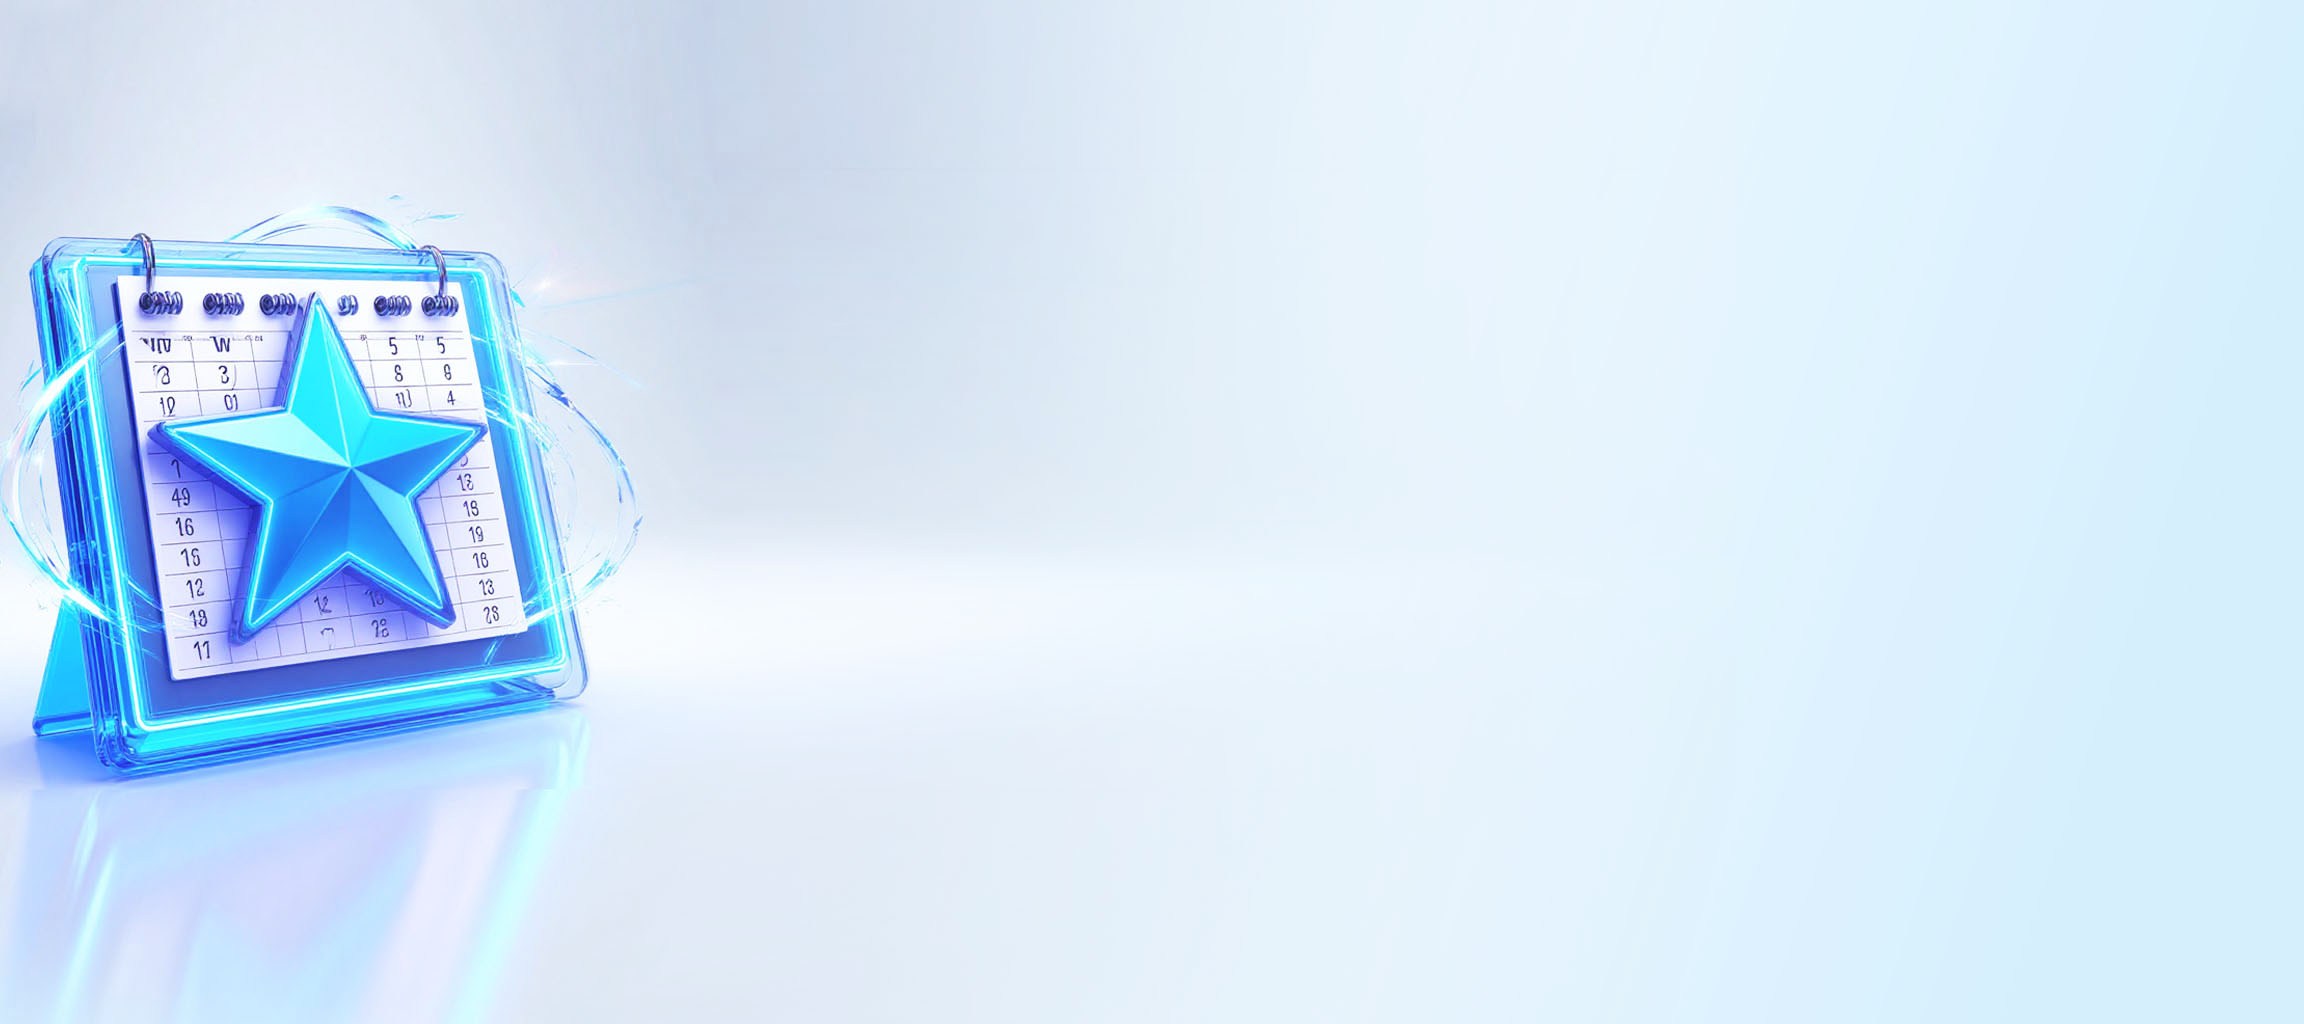
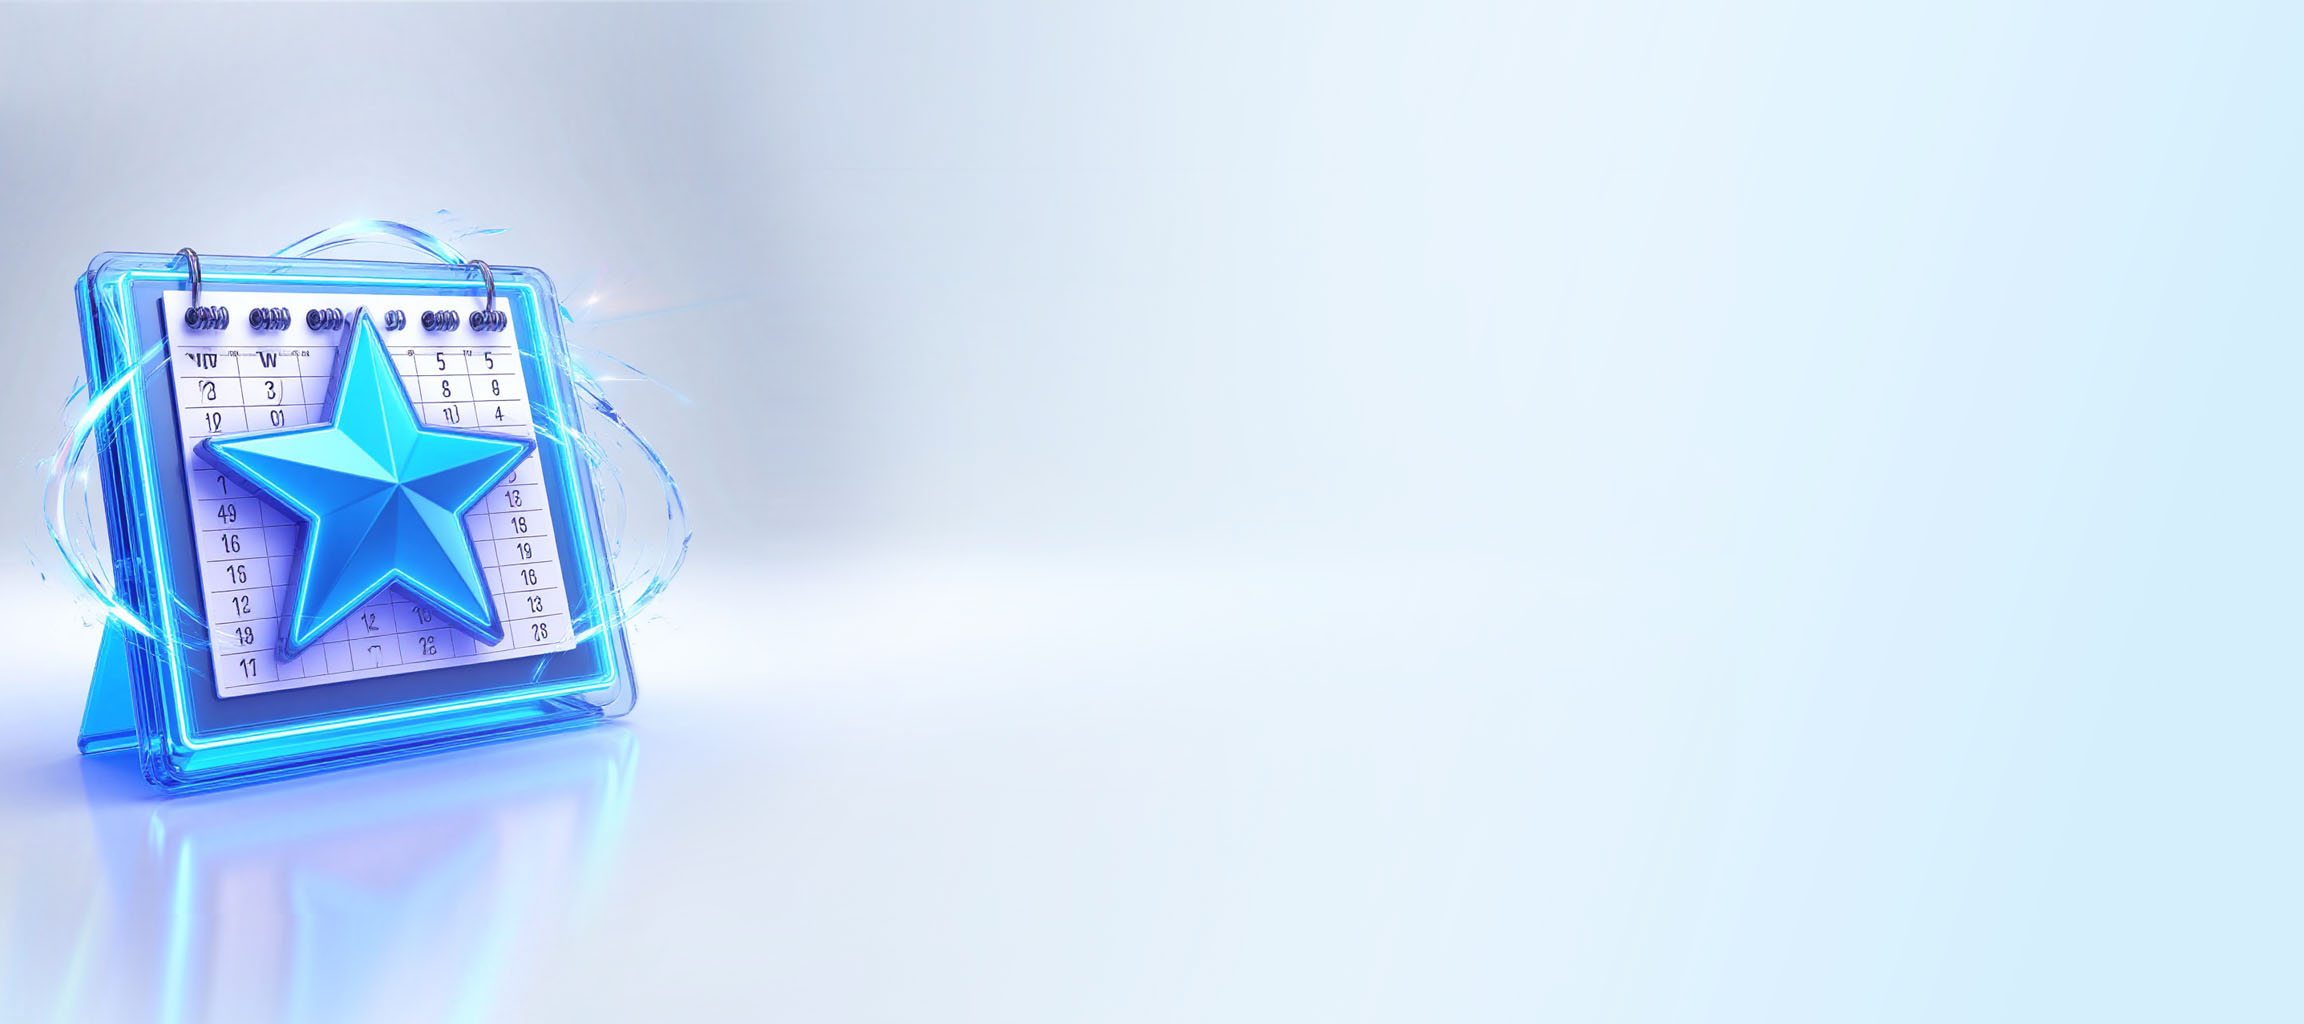
768 ready

Changed region(s): [[0.0, 0.125, 0.3438, 1.0]]

diff --git a/saitCzs/css/vendorRoom.css b/saitCzs/css/vendorRoom.css
@@ -275,7 +275,7 @@
     display: flex;
     flex-direction: column;
     justify-content: space-between;
-    width: calc(var(--base-gap) * 27.55);
+    width: calc((100% - 32px) / 2);
     border-radius: calc(var(--base-gap) / 2);
     border: 1px solid var(--lightBlue);
 }
@@ -422,7 +422,7 @@
 .vendor_page .last__item {
     display: flex;
     flex-direction: column;
-    width: calc(var(--base-gap) * 17.80);
+    width: calc((100% - 64px) / 3);
     border-radius: calc(var(--base-gap) / 2);
     background-color: #fff;
     border: 1px solid var(--lightBlue);
@@ -443,11 +443,16 @@
     display: flex;
     flex-direction: column;
     justify-content: space-between;
+    height: 100%;
     padding: calc(var(--base-gap) * 1.25);
 }
 
 .vendor_page .last__description {
+    display: flex;
+    flex-direction: column;
+    height: 100%;
     margin-bottom: calc(var(--base-gap) * 1.25);
+    
 }
 
 .vendor_page .last__data {
@@ -650,7 +655,7 @@
     .vendor_page .header .header__top {
         flex-direction: column;
         margin-bottom: calc(var(--base-gap) * 2);
-        gap: calc(var(--base-gap) * 0.5);
+        gap: calc(var(--base-gap) * 2);
     }
 
     .vendor_page .new__title,
@@ -665,6 +670,7 @@
         padding-left: calc(var(--base-gap) * 10);
         height: 100%;
         background-image: url(../img/звездаФон1024.jpg);
+        background-position: center;
     }
 
     .vendor_page .new__block-tel {
@@ -675,10 +681,6 @@
 
     .vendor_page .event__block {
         padding: calc(var(--base-gap) * 1);
-    }
-
-    .vendor_page .event__item {
-        width: calc(var(--base-gap) * 14.75);
     }
 
     .vendor_page .event__img {
@@ -712,11 +714,12 @@
     }
 
     .event__btn-img {
+        width: calc(var(--base-font-size) * 2);
         height: calc(var(--base-font-size) * 2);
     }
 
     .vendor_page .last__item {
-        width: calc(var(--base-gap) * 14.75);
+        width: calc((100% - 32px) / 2);
     }
 
     .vendor_page .last__item:nth-child(3) {
@@ -730,9 +733,16 @@
     .vendor_page .content {
         gap: calc(var(--base-gap) * 2);
     }
+   
 }
 
+
+
 @media (max-width: 1020px) {
+
+    .vendor_page .new__block-info {
+        background-image: url(../img/звездаФон1020.png);
+    }
     .vendor_page .container {
         padding: 0 calc(var(--base-gap) * 3.5);
         flex-direction: column;
@@ -791,63 +801,56 @@
         margin-top: 0;
         margin-left: var(--base-gap);
     }
-}
 
-
-
-
-
-
-
-
-
-
-
-
-
-
-
-
-
-
-
-
-
-
-
-
-
-
-
-
-
-
-
-
-
-
-@media (max-width: 1199px) {
-    .vendor_page .header .header__logo {
-        align-self: flex-start;
+    .vendor_page .event__button {
+        flex-direction: row;
+        padding: 0;
+        padding-right: var(--base-gap);
+        gap: calc(var(--base-gap) / 2);
+        height: calc(var(--base-font-size) * 4);
+        background-color: var(--lightBlue);
+        border-bottom-left-radius: calc(var(--base-gap) / 2);
+        border-bottom-right-radius: 0;
     }
 
-    .vendor_page .header .header__top {
-        flex-direction: column;
-        margin-bottom: calc(var(--base-gap) * 2);
-        gap: calc(var(--base-gap) * 2);
-    }
-}
-
-@media (max-width: 1020px) {
-    .vendor_page .container {
-
-        padding: 0 calc(var(--base-gap) * 3.5);
+    .vendor_page .event__button-img img {
+        border-radius: 0;
+        width: 100%;
+        height: calc(var(--base-font-size) * 4);
+        border-bottom-left-radius: calc(var(--base-gap) / 2);
     }
 
-    .vendor_page .header .header__button {
-        padding: calc(var(--base-gap) / 2) calc(var(--base-gap) * 3);
+    .vendor_page .event__btn-img {
+        height: calc(var(--base-font-size) * 1.25);
+    }
+
+    .vendor_page .event__btn {
+        height: calc(var(--base-font-size) * 3.0);
+    }
+
+    .vendor_page .new__block-tel {
+        background-image: url(../img/телФон\ копия.jpg);
+    }
+
+    .vendor_page .last__list {
+        gap: var(--base-gap);
+    }
+
+    .vendor_page .last__item {
+        width: calc((100% - 48px) / 3);
+    }
+
+    .vendor_page .last__item:nth-child(3) {
+        display: flex;
+    }
+
+    .vendor_page .last__btn-img {
+        width: calc(var(--base-font-size) * 2);
+        height: calc(var(--base-font-size) * 1.75);
     }
 }
+
+
 
 @media (max-width: 750px) {
     .vendor_page {
@@ -861,10 +864,12 @@
     .vendor_page .header {
         margin-bottom: calc(var(--base-gap) * 1.5);
     }
+
     .vendor_page .header .header__logo-img {
         width: 100%;
         height: 100%;
     }
+
     .vendor_page .header .header__logo-name {
         font-size: calc(var(--base-font-size) * 1.38);
         line-height: calc(var(--base-font-size) * 1.0);
@@ -948,10 +953,37 @@
         padding: calc(var(--base-gap) / 2) var(--base-gap);
     }
 
-    .vendor_page .future__button{
+    .vendor_page .future__button {
         width: 100%;
     }
+
+    .vendor_page .last__item {
+        width: 100%;
+        flex-direction: row;
+    }
+
+.vendor_page .last__block-img {    
+    width: 30%;
+    border-top-left-radius: calc(var(--base-gap) / 2);
+    border-top-right-radius: 0;
+    border-bottom-left-radius: calc(var(--base-gap) / 2);
+    background-color: var(--newGray);
+    }
+
+     .vendor_page .last__btn-img {
+        width: calc(var(--base-font-size) * 2);
+        height: calc(var(--base-font-size) * 2);
+    }
+
+    .vendor_page .last__img {
+    border-top-right-radius: 0;
+    }
 }
+
+
+
+
+
 
 @media (max-width: 430px) {
     .vendor_page .future__block-top {
@@ -961,7 +993,7 @@
     }
 
     .vendor_page .future__block-img {
-        min-width: 100%;        
+        min-width: 100%;
     }
 
     .vendor_page .future__img {
@@ -973,6 +1005,21 @@
     .vendor_page .future__block-date {
         display: none;
     }
+
+    .vendor_page .last__item {
+        flex-direction: column;
+    }
+
+    .vendor_page .last__block-img {
+        width: 100%;
+        background-color: transparent;
+    }
+
+    .vendor_page .last__img {
+        width: 100%;
+        border-top-right-radius: calc(var(--base-gap) / 2);
+    }
+
 }
 
 
@@ -1031,5 +1078,6 @@
     .vendor_page .last__link:hover {
         color: var(--base-color-2);
     }
+
 
 }
